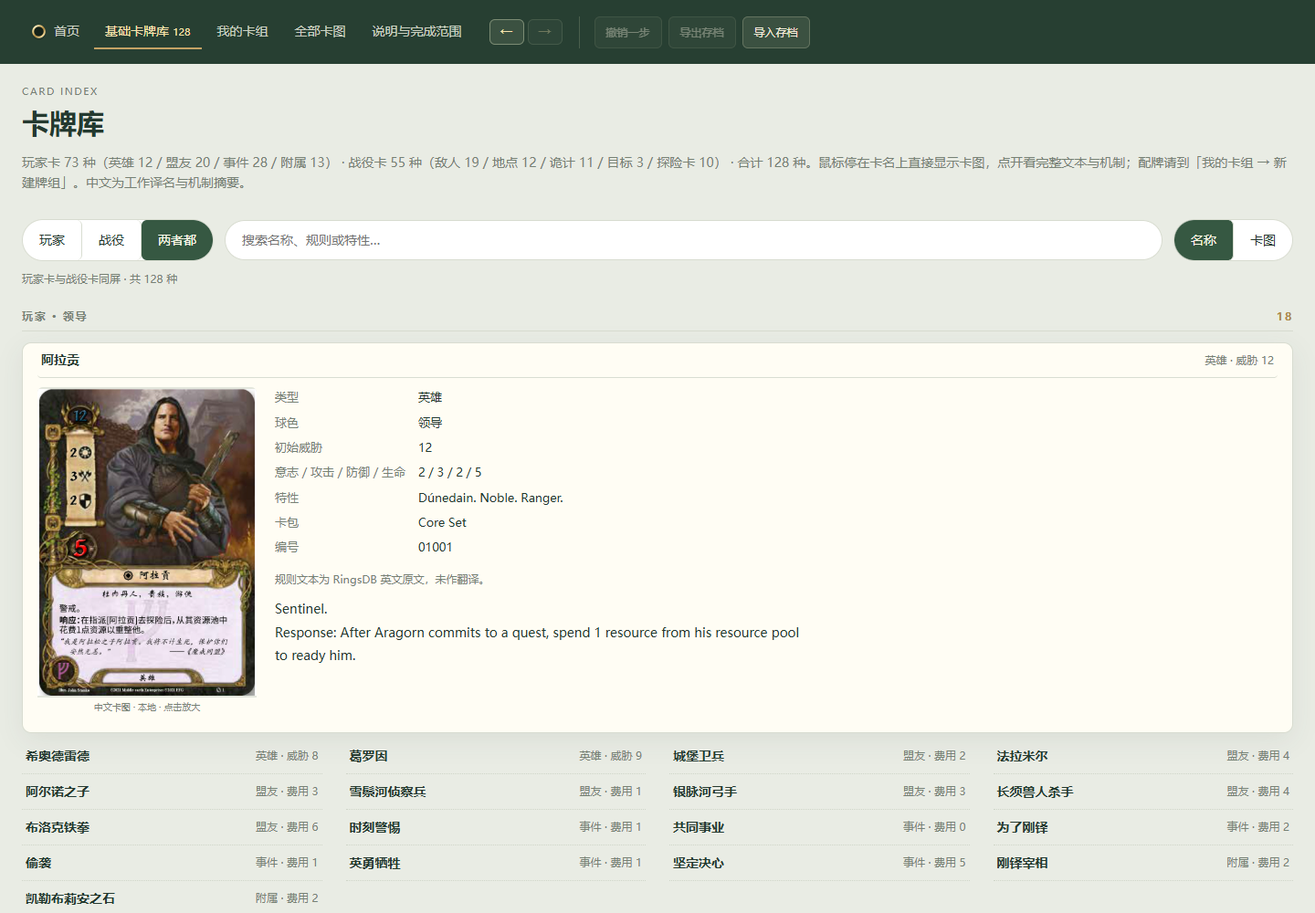
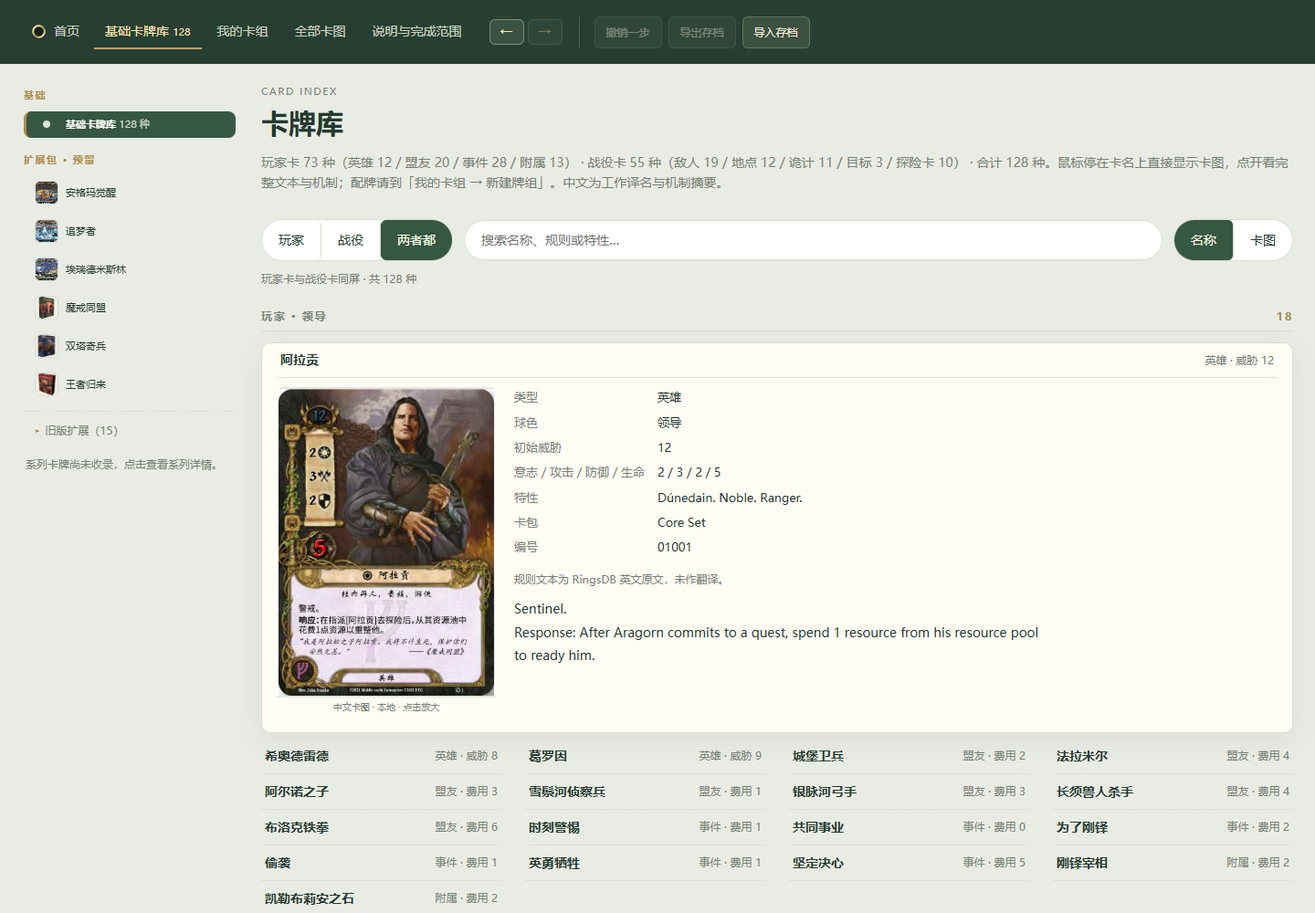
v0.15.27 卡牌库加侧边系列导航，基础卡牌库为默认项
参照诡镇奇谈网页版的侧边栏，卡牌库改为「侧边系列导航 + 主内容区」
双栏布局，为按卡牌系列扩展留好结构。

- 侧栏两组：基础（基础卡牌库，默认激活，标注 128 种）与扩展包 ·
  预留（新版扩展 6 系列直接列出，旧版扩展 15 大盒折叠在 details）
- 扩展条目从 PRODUCT_TABS.revised 与 legacySeries() 动态生成并带
  封面小图（懒加载，webp 缺失回退 jpg）；点击进系列详情面板（封面 +
  「卡牌尚未收录」说明）；以后收录某系列时把 catalogSeriesPanel()
  的占位换成按系列筛选即可，导航结构无需再动
- 样式沿用现有体系（金色小节标题、绿色激活条）；aria-current 标注
  激活项；桌面侧栏 sticky 且内部可滚动
- 移动端 ≤960px：单列，侧栏取消 sticky，条目变可换行 chip；480 宽
  实测无横向溢出
- 加固：filterCatalog() 与 render 搜索绑定补空值守卫（系列详情无
  #search/#resultCount 时安全跳过）
- 回归：planning-dom-tests 新增侧栏用例；check-catalog 加 7 项侧栏
  检查 + 4 项移动端检查，共 41 项全 PASS；432 项测试通过

diff --git a/index.html b/index.html
@@ -363,6 +363,47 @@ body:has(.desktop-table) .nav-home .brand-mark{width:17px;height:17px}
 .build-row .cat-name{overflow-wrap:anywhere}
 @media(max-width:900px){.build-list{grid-template-columns:1fr}}
 
+/* 卡牌库侧边导航：桌面双栏，基础卡牌库为默认项，扩展包条目为预留占位 */
+.catalog-layout{display:grid;grid-template-columns:236px minmax(0,1fr);gap:26px;align-items:start}
+.cat-side{position:sticky;top:74px;max-height:calc(100vh - 92px);overflow-y:auto;padding:4px 2px 16px;scrollbar-width:thin}
+.cat-nav{display:grid;gap:16px}
+.cat-nav-group{display:grid;gap:4px}
+.cat-nav-group h3{margin:0 0 4px;font-size:11px;letter-spacing:.14em;text-transform:uppercase;color:var(--gold);font-weight:700}
+.cat-nav-item{display:flex;align-items:center;gap:9px;width:100%;padding:7px 10px;border:0;border-left:3px solid transparent;border-radius:8px;background:transparent;color:var(--ink);font:inherit;font-size:14px;line-height:1.35;text-align:left;cursor:pointer;transition:background .12s ease,border-color .12s ease}
+.cat-nav-item:hover{background:#36584214;border-color:#36584233}
+.cat-nav-item:focus-visible{outline:2px solid var(--green);outline-offset:1px}
+.cat-nav-item[aria-current="page"]{background:var(--green);border-left-color:var(--gold);color:#fffdf6;font-weight:600}
+.cat-nav-item[aria-current="page"] .cat-nav-name small{color:#fffdf6b8}
+.cat-nav-item img{width:24px;height:24px;flex:0 0 24px;object-fit:cover;border-radius:5px;background:#f2f0e4;box-shadow:0 0 0 1px var(--line)}
+.cat-nav-dot{width:8px;height:8px;flex:0 0 8px;margin:0 8px;border-radius:50%;background:var(--gold);opacity:.85}
+.cat-nav-item[aria-current="page"] .cat-nav-dot{background:#fffdf6}
+.cat-nav-name{overflow-wrap:anywhere}
+.cat-nav-name small{color:var(--muted);font-size:11px;font-weight:400}
+.cat-nav-fold{border-top:1px dashed var(--line);margin-top:6px;padding-top:6px}
+.cat-nav-fold summary{cursor:pointer;font-size:12px;color:var(--muted);padding:5px 10px;border-radius:6px;list-style:none}
+.cat-nav-fold summary::-webkit-details-marker{display:none}
+.cat-nav-fold summary::before{content:"▸ ";color:var(--gold)}
+.cat-nav-fold[open] summary::before{content:"▾ "}
+.cat-nav-fold summary:hover{color:var(--ink);background:#36584210}
+.cat-nav-fold[open] summary{margin-bottom:2px}
+.cat-nav-hint{margin:8px 2px 0;color:var(--muted)}
+.cat-series-panel{display:flex;gap:20px;align-items:flex-start}
+.cat-series-art{width:180px;max-width:38%;border-radius:10px;box-shadow:0 0 0 1px var(--line),0 8px 22px #24392f1c;align-self:flex-start}
+.cat-series-text h2{margin:4px 0 10px;font-size:19px}
+.cat-series-text button{margin-top:6px}
+@media(max-width:960px){
+ .catalog-layout{grid-template-columns:1fr;gap:14px}
+ .cat-side{position:static;max-height:none;overflow:visible;padding:0}
+ .cat-nav{display:block}
+ .cat-nav-group{display:block;margin-bottom:12px}
+ .cat-nav-group h3{margin-bottom:4px}
+ .cat-nav-item{display:inline-flex;width:auto;max-width:100%;margin:2px 6px 2px 0;background:#fffdf6;border:1px solid var(--line);border-left:3px solid transparent}
+ .cat-nav-item[aria-current="page"]{border-color:var(--green)}
+ .cat-nav-fold{border-top:0;padding-top:2px;margin-top:2px}
+ .cat-series-panel{flex-direction:column}
+ .cat-series-art{width:min(240px,60%);max-width:none}
+}
+
 </style></head><body>
 <header><nav><button id="tableTab" class="active nav-home" title="回到首页"><svg class="brand-mark" viewBox="0 0 64 64" aria-hidden="true" focusable="false"><defs><linearGradient id="brandGold" x1="10" y1="8" x2="54" y2="57" gradientUnits="userSpaceOnUse"><stop offset="0" stop-color="#fdf4cd"/><stop offset=".32" stop-color="#e3c47a"/><stop offset=".55" stop-color="#a9853f"/><stop offset=".78" stop-color="#e8cb86"/><stop offset="1" stop-color="#fffae0"/></linearGradient><radialGradient id="brandField" cx=".5" cy=".42" r=".58"><stop offset="0" stop-color="#8a4a16"/><stop offset=".46" stop-color="#4a2a10"/><stop offset="1" stop-color="#150e07"/></radialGradient></defs><circle cx="32" cy="32" r="21" fill="#0d1710" fill-opacity=".62"/><circle cx="32" cy="32" r="21" fill="none" stroke="url(#brandGold)" stroke-width="7"/><path d="M14.6 19.2A21 21 0 0 1 32.6 10.9" fill="none" stroke="#fffbe8" stroke-width="2.4" stroke-linecap="round" opacity=".55"/></svg>首页</button><button id="catalogTab">基础卡牌库 <span>55</span></button><button id="decksTab">我的卡组</button><button id="imagesTab">全部卡图</button><button id="helpTab">说明与完成范围</button></nav><div class="history-nav"><button id="navBack" type="button" title="后退" aria-label="后退">←</button><button id="navFwd" type="button" title="前进" aria-label="前进">→</button></div><div class="header-actions"><button id="undo">撤销一步</button><button id="export">导出存档</button><label class="button" for="import">导入存档</label><input id="import" type="file" accept="application/json" hidden></div></header>
 <main id="app"></main><div id="toast" role="status" aria-live="polite"></div>
@@ -8429,7 +8470,7 @@ const WindowUI=(()=>{
 </script><script>
 /* Tabletop view: UI drafts never pay, exhaust, reveal, or bypass phase validation. */
 /* 界面版本徽标唯一来源：须与 CHANGELOG.md 最新条目标题一致（planning-dom-tests 有校验）。 */
-const APP_VERSION='v0.15.26';
+const APP_VERSION='v0.15.27';
 const DesktopUI=(()=>{
  const E=ScenarioEngine,R=E.planning,Q=E.questing,C=E.combat,esc=x=>String(x??'').replace(/[&<>"']/g,c=>({'&':'&amp;','<':'&lt;','>':'&gt;','"':'&quot;',"'":'&#39;'}[c]));
  let combatDraft={key:'',target:null,ids:[]},draftState=null;
@@ -8909,7 +8950,29 @@ const CAT_SIDES=[{id:'player',label:'玩家',note:'英雄 · 盟友 · 附属 ·
 const CAT_GROUP_ORDER=['领导','战术','精神','学识','中立','敌人','地点','诡计','目标','探险卡'];
 const PLAYER_TYPES={hero:'英雄',ally:'盟友',attachment:'附属',event:'事件'};
 const SPHERE_NAMES={leadership:'领导',tactics:'战术',spirit:'精神',lore:'学识',neutral:'中立'};
-let catalogSide='both',catalogView='list',catalogQuery='',catalogCache=null;
+let catalogSide='both',catalogView='list',catalogQuery='',catalogCache=null,catSection='base',catalogNavCache=null;
+/* 侧边栏导航：基础卡牌库是默认项；扩展包条目从产品目录动态生成做占位，
+ * 以后某系列收录卡牌时，把 catalogSeriesPanel 的占位换成该系列的筛选结果即可。 */
+function catalogNav(){
+ if(catalogNavCache)return catalogNavCache;
+ const revised=[],legacy=[];
+ for(const ch of PRODUCT_TABS.revised||[])for(const it of ch.items||[])revised.push({id:it.id,name:it.zh||it.name,en:it.en&&it.en!==it.name?it.en:'',art:it.art||'',meta:it.meta||''});
+ for(const s of legacySeries())legacy.push({id:s.id,name:s.name,en:s.en&&s.en!==s.name?s.en:'',art:s.art||'',meta:s.packs&&s.packs.length?`${s.packs.length} 个扩展`:'循环'});
+ return catalogNavCache={revised,legacy};
+}
+function catNavItem(it){
+ const icon=it.art?`<img src="${enc(it.art)}" alt="" loading="lazy" onerror="const s=this.getAttribute('src')||'';if(/\.webp$/.test(s)){this.setAttribute('src',s.replace(/\.webp$/,'.jpg'))}else{this.remove()}">`:'<span class="cat-nav-dot" aria-hidden="true"></span>';
+ return `<button type="button" class="cat-nav-item" data-action="catNav" data-section="${enc(it.id)}" aria-current="${catSection===it.id?'page':'false'}">${icon}<span class="cat-nav-name">${enc(it.name)}</span></button>`;
+}
+function catNavHtml(){
+ const nav=catalogNav();
+ return `<aside class="cat-side"><nav class="cat-nav" aria-label="卡牌库系列导航"><div class="cat-nav-group"><h3>基础</h3><button type="button" class="cat-nav-item" data-action="catNav" data-section="base" aria-current="${catSection==='base'?'page':'false'}"><span class="cat-nav-dot" aria-hidden="true"></span><span class="cat-nav-name">基础卡牌库<small> ${catalogStats().total} 种</small></span></button></div><div class="cat-nav-group"><h3>扩展包 · 预留</h3>${nav.revised.map(catNavItem).join('')}<details class="cat-nav-fold"${catSection!=='base'&&nav.legacy.some(x=>x.id===catSection)?' open':''}><summary>旧版扩展（${nav.legacy.length}）</summary>${nav.legacy.map(catNavItem).join('')}</details><p class="cat-nav-hint small">系列卡牌尚未收录，点击查看系列详情。</p></div></nav></aside>`;
+}
+function catalogSeriesPanel(id){
+ const it=catalogNav().revised.concat(catalogNav().legacy).find(x=>x.id===id);if(!it)return '';
+ const art=it.art?`<img class="cat-series-art" src="${enc(it.art)}" alt="" loading="lazy" onerror="const s=this.getAttribute('src')||'';if(/\.webp$/.test(s)){this.setAttribute('src',s.replace(/\.webp$/,'.jpg'))}else{this.remove()}">`:'';
+ return `<div class="intro"><div><div class="eyebrow">SERIES · 即将收录</div><h1>${enc(it.name)}</h1>${it.en?`<p class="muted">${enc(it.en)}</p>`:''}</div></div><section class="panel cat-series-panel">${art}<div class="cat-series-text"><h2>该系列的卡牌尚未收录</h2><p>目前卡牌库收录的是基础版 ${catalogStats().total} 种卡牌（玩家卡与战役卡）。这一系列${it.meta?`（${enc(it.meta)}）`:''}的卡牌与规则将随版本更新加入，届时会出现在这里，并可直接按本系列筛选。</p><p class="small muted">想先了解它的剧本？回首页从「新版扩展／旧版扩展」进入对应章节。</p><button type="button" data-action="catNav" data-section="base">← 返回基础卡牌库</button></div></section>`;
+}
 function catalogEntries(){
  if(catalogCache)return catalogCache;
  const out=[],snap=(typeof RINGSDB_SNAPSHOT!=='undefined'&&RINGSDB_SNAPSHOT.cards)||[];
@@ -8938,8 +9001,11 @@ function catalogGroups(side){
  return [...map.values()].sort((a,b)=>(a.order<0?99:a.order)-(b.order<0?99:b.order));
 }
 function catalog(){
- const st=catalogStats(),kinds=m=>Object.entries(m).map(([k,v])=>enc(k)+' '+v).join(' / ');
- return `<div class="intro"><div><div class="eyebrow">CARD INDEX</div><h1>卡牌库</h1><p class="muted">玩家卡 ${st.player} 种（${kinds(st.playerKinds)}） · 战役卡 ${st.encounter} 种（${kinds(st.encounterKinds)}） · 合计 ${st.total} 种。鼠标停在卡名上直接显示卡图，点开看完整文本与机制；配牌请到「我的卡组 → 新建牌组」。中文为工作译名与机制摘要。</p></div></div><div class="cat-controls"><div class="cat-sides" role="group" aria-label="卡牌分类">${CAT_SIDES.map(s=>`<button type="button" data-action="catSide" data-value="${s.id}" aria-pressed="${s.id===catalogSide}" title="${enc(s.note)}">${s.label}</button>`).join('')}</div><input id="search" placeholder="搜索名称、规则或特性…" value="${enc(catalogQuery)}" aria-label="搜索卡牌"><div class="cat-views" role="group" aria-label="显示方式"><button type="button" data-action="catView" data-value="list" aria-pressed="${catalogView==='list'}">名称</button><button type="button" data-action="catView" data-value="art" aria-pressed="${catalogView==='art'}">卡图</button></div></div><div class="small muted" id="resultCount"></div><div class="cat-index" id="catalogResults"></div>`;
+ const main=catSection==='base'?(()=>{
+  const st=catalogStats(),kinds=m=>Object.entries(m).map(([k,v])=>enc(k)+' '+v).join(' / ');
+  return `<div class="intro"><div><div class="eyebrow">CARD INDEX</div><h1>卡牌库</h1><p class="muted">玩家卡 ${st.player} 种（${kinds(st.playerKinds)}） · 战役卡 ${st.encounter} 种（${kinds(st.encounterKinds)}） · 合计 ${st.total} 种。鼠标停在卡名上直接显示卡图，点开看完整文本与机制；配牌请到「我的卡组 → 新建牌组」。中文为工作译名与机制摘要。</p></div></div><div class="cat-controls"><div class="cat-sides" role="group" aria-label="卡牌分类">${CAT_SIDES.map(s=>`<button type="button" data-action="catSide" data-value="${s.id}" aria-pressed="${s.id===catalogSide}" title="${enc(s.note)}">${s.label}</button>`).join('')}</div><input id="search" placeholder="搜索名称、规则或特性…" value="${enc(catalogQuery)}" aria-label="搜索卡牌"><div class="cat-views" role="group" aria-label="显示方式"><button type="button" data-action="catView" data-value="list" aria-pressed="${catalogView==='list'}">名称</button><button type="button" data-action="catView" data-value="art" aria-pressed="${catalogView==='art'}">卡图</button></div></div><div class="small muted" id="resultCount"></div><div class="cat-index" id="catalogResults"></div>`;
+ })():catalogSeriesPanel(catSection);
+ return `<div class="catalog-layout">${catNavHtml()}<div class="cat-main">${main}</div></div>`;
 }
 function catalogHover(e){
  const key=e.face==='player'?e.code:'enc-'+e.code,rec=ImageLibrary.by[key],url=rec?ImageLibrary.safeUrl(rec.imageUrl):null;
@@ -8977,9 +9043,8 @@ function filterCatalog(){
   return `<section class="cat-group"><h2><span>${enc(g.title)}</span><span class="cat-count">${hit.length}</span></h2>${catalogView==='art'?`<div class="cat-art-grid">${hit.map(catalogArt).join('')}</div>`:`<div class="cat-list">${hit.map(catalogItem).join('')}</div>`}</section>`;
  }).join('');
  const side=CAT_SIDES.find(s=>s.id===catalogSide)||CAT_SIDES[2];
- $('#resultCount').textContent=q?`「${catalogQuery.trim()}」匹配 ${shown} 种`:`${side.note} · 共 ${shown} 种`;
- $('#catalogResults').innerHTML=html||empty(q?'没有匹配的卡牌，换个关键词。':'这一类暂时没有卡牌。');
- ImageLibrary.bindErrors(document.querySelector('#catalogResults'));
+ const rc=$('#resultCount');if(rc)rc.textContent=q?`「${catalogQuery.trim()}」匹配 ${shown} 种`:`${side.note} · 共 ${shown} 种`;
+ const cr=$('#catalogResults');if(cr){cr.innerHTML=html||empty(q?'没有匹配的卡牌，换个关键词。':'这一类暂时没有卡牌。');ImageLibrary.bindErrors(cr);}
  bindCatalog();
 }
 function bindCatalog(){
@@ -9033,7 +9098,7 @@ async function handleChooser(b){const a=b.dataset.action,c=deckChooser;if(!c)ret
  if(a==='chooserImportUrl'){const input=document.querySelector('#chooser-url'),raw=String(input&&input.value||'').trim(),m=raw.match(/(?:decklist|deck)\/(?:view\/)?(\d+)/i)||raw.match(/^(\d+)$/);if(!m){toast('无法识别牌组编号；示例 https://ringsdb.com/decklist/view/12345');return;}const ctrl=new AbortController(),timer=setTimeout(()=>ctrl.abort(),15000);try{const res=await fetch('https://ringsdb.com/api/public/decklist/'+m[1],{signal:ctrl.signal,headers:{Accept:'application/json'}});if(!res.ok)throw Error('RingsDB 返回 HTTP '+res.status);const saved=PlayerUI.saveDeck(PlayerCards.fromRingsdb(await res.json()));c.picks[c.player]=saved.id;const next=c.picks.findIndex(x=>!x);if(next>=0)c.player=next;render();toast('已导入并选给玩家'+(c.player+1)+'：'+saved.name);}catch(e){toast(e.name==='AbortError'?'RingsDB 请求超时（15秒）；国内网络通常无法访问':'导入失败：'+e.message);}finally{clearTimeout(timer);}return;}
  if(a==='chooserConfirm'){for(let i=0;i<c.players;i++)setupDraft.decks[i]=c.picks[i];const id=c.scenario;deckChooser=null;beginScenario(id);return;}
 }
-function render(){captureSetup();document.querySelectorAll('nav button').forEach(b=>b.classList.remove('active'));const navBtn=$('#'+({table:'tableTab',decks:'decksTab',catalog:'catalogTab',images:'imagesTab',help:'helpTab'}[tab]));if(navBtn)navBtn.classList.add('active');$('#app').innerHTML=tab==='table'?(deckChooser?chooserPage():table()):tab==='decks'?(PlayerUI.isBuilding()?PlayerUI.builder():PlayerUI.decksPage()):tab==='catalog'?catalog():tab==='images'?ImageLibrary.html():help();$('#undo').disabled=!history.length;$('#export').disabled=!state;if(tab==='table'&&state&&$('#hand-player'))$('#hand-player').onchange=ev=>{handView=Number(ev.target.value);render();};if(tab==='table'&&state&&$('#planning-actor'))$('#planning-actor').onchange=ev=>{handView=Number(ev.target.value);render();};if(tab==='table'&&state)QuestUI.bind();if(tab==='table'&&!state)bindSetup();if(tab==='decks'){PlayerUI.bindDecks();PlayerUI.bind();}if(tab==='images')ImageLibrary.bind();else ImageLibrary.bindErrors(document.querySelector('#app'));if(tab==='catalog'){filterCatalog();$('#search').oninput=filterCatalog;}trackView();}
+function render(){captureSetup();document.querySelectorAll('nav button').forEach(b=>b.classList.remove('active'));const navBtn=$('#'+({table:'tableTab',decks:'decksTab',catalog:'catalogTab',images:'imagesTab',help:'helpTab'}[tab]));if(navBtn)navBtn.classList.add('active');$('#app').innerHTML=tab==='table'?(deckChooser?chooserPage():table()):tab==='decks'?(PlayerUI.isBuilding()?PlayerUI.builder():PlayerUI.decksPage()):tab==='catalog'?catalog():tab==='images'?ImageLibrary.html():help();$('#undo').disabled=!history.length;$('#export').disabled=!state;if(tab==='table'&&state&&$('#hand-player'))$('#hand-player').onchange=ev=>{handView=Number(ev.target.value);render();};if(tab==='table'&&state&&$('#planning-actor'))$('#planning-actor').onchange=ev=>{handView=Number(ev.target.value);render();};if(tab==='table'&&state)QuestUI.bind();if(tab==='table'&&!state)bindSetup();if(tab==='decks'){PlayerUI.bindDecks();PlayerUI.bind();}if(tab==='images')ImageLibrary.bind();else ImageLibrary.bindErrors(document.querySelector('#app'));if(tab==='catalog'){filterCatalog();const si=$('#search');if(si)si.oninput=filterCatalog;}trackView();}
 async function choose(title,body,read){return new Promise(resolve=>{let d=document.createElement('dialog');d.innerHTML=`<h2>${enc(title)}</h2><div>${body}</div><div class="actions"><button class="primary" id="ok">确认</button><button id="cancel">取消</button></div>`;document.body.append(d);d.showModal();d.querySelector('#ok').onclick=()=>{let v=read(d);d.close();d.remove();resolve(v);};d.querySelector('#cancel').onclick=()=>{d.close();d.remove();resolve(null);};d.oncancel=()=>{d.remove();resolve(null);};});}
 function playerOptions(){return state.players.filter(p=>!p.eliminated).map(p=>`<option value="${p.id}">${enc(p.name)}</option>`).join('');}
 $('#app').onclick=async ev=>{const b=ev.target.closest('[data-action]');if(!b||b.disabled)return;const a=b.dataset.action,uid=Number(b.dataset.uid),id=Number(b.dataset.id),pid=Number(b.dataset.player);
@@ -9048,6 +9113,7 @@ $('#app').onclick=async ev=>{const b=ev.target.closest('[data-action]');if(!b||b
  if(a==='images'){ImageLibrary.handle(b);return;}
  if(a==='catSide'){catalogSide=b.dataset.value;render();return;}
  if(a==='catView'){catalogView=b.dataset.value;render();return;}
+ if(a==='catNav'){catSection=b.dataset.section||'base';render();return;}
  if(a==='pc'){await PlayerUI.handle(b);return;}
  if(a==='start'){beginScenario(b.dataset.id);return;}
  if(a==='startOpen'){openChooser(b.dataset.id);return;}

diff --git a/app.js b/app.js
@@ -143,7 +143,29 @@ const CAT_SIDES=[{id:'player',label:'玩家',note:'英雄 · 盟友 · 附属 ·
 const CAT_GROUP_ORDER=['领导','战术','精神','学识','中立','敌人','地点','诡计','目标','探险卡'];
 const PLAYER_TYPES={hero:'英雄',ally:'盟友',attachment:'附属',event:'事件'};
 const SPHERE_NAMES={leadership:'领导',tactics:'战术',spirit:'精神',lore:'学识',neutral:'中立'};
-let catalogSide='both',catalogView='list',catalogQuery='',catalogCache=null;
+let catalogSide='both',catalogView='list',catalogQuery='',catalogCache=null,catSection='base',catalogNavCache=null;
+/* 侧边栏导航：基础卡牌库是默认项；扩展包条目从产品目录动态生成做占位，
+ * 以后某系列收录卡牌时，把 catalogSeriesPanel 的占位换成该系列的筛选结果即可。 */
+function catalogNav(){
+ if(catalogNavCache)return catalogNavCache;
+ const revised=[],legacy=[];
+ for(const ch of PRODUCT_TABS.revised||[])for(const it of ch.items||[])revised.push({id:it.id,name:it.zh||it.name,en:it.en&&it.en!==it.name?it.en:'',art:it.art||'',meta:it.meta||''});
+ for(const s of legacySeries())legacy.push({id:s.id,name:s.name,en:s.en&&s.en!==s.name?s.en:'',art:s.art||'',meta:s.packs&&s.packs.length?`${s.packs.length} 个扩展`:'循环'});
+ return catalogNavCache={revised,legacy};
+}
+function catNavItem(it){
+ const icon=it.art?`<img src="${enc(it.art)}" alt="" loading="lazy" onerror="const s=this.getAttribute('src')||'';if(/\.webp$/.test(s)){this.setAttribute('src',s.replace(/\.webp$/,'.jpg'))}else{this.remove()}">`:'<span class="cat-nav-dot" aria-hidden="true"></span>';
+ return `<button type="button" class="cat-nav-item" data-action="catNav" data-section="${enc(it.id)}" aria-current="${catSection===it.id?'page':'false'}">${icon}<span class="cat-nav-name">${enc(it.name)}</span></button>`;
+}
+function catNavHtml(){
+ const nav=catalogNav();
+ return `<aside class="cat-side"><nav class="cat-nav" aria-label="卡牌库系列导航"><div class="cat-nav-group"><h3>基础</h3><button type="button" class="cat-nav-item" data-action="catNav" data-section="base" aria-current="${catSection==='base'?'page':'false'}"><span class="cat-nav-dot" aria-hidden="true"></span><span class="cat-nav-name">基础卡牌库<small> ${catalogStats().total} 种</small></span></button></div><div class="cat-nav-group"><h3>扩展包 · 预留</h3>${nav.revised.map(catNavItem).join('')}<details class="cat-nav-fold"${catSection!=='base'&&nav.legacy.some(x=>x.id===catSection)?' open':''}><summary>旧版扩展（${nav.legacy.length}）</summary>${nav.legacy.map(catNavItem).join('')}</details><p class="cat-nav-hint small">系列卡牌尚未收录，点击查看系列详情。</p></div></nav></aside>`;
+}
+function catalogSeriesPanel(id){
+ const it=catalogNav().revised.concat(catalogNav().legacy).find(x=>x.id===id);if(!it)return '';
+ const art=it.art?`<img class="cat-series-art" src="${enc(it.art)}" alt="" loading="lazy" onerror="const s=this.getAttribute('src')||'';if(/\.webp$/.test(s)){this.setAttribute('src',s.replace(/\.webp$/,'.jpg'))}else{this.remove()}">`:'';
+ return `<div class="intro"><div><div class="eyebrow">SERIES · 即将收录</div><h1>${enc(it.name)}</h1>${it.en?`<p class="muted">${enc(it.en)}</p>`:''}</div></div><section class="panel cat-series-panel">${art}<div class="cat-series-text"><h2>该系列的卡牌尚未收录</h2><p>目前卡牌库收录的是基础版 ${catalogStats().total} 种卡牌（玩家卡与战役卡）。这一系列${it.meta?`（${enc(it.meta)}）`:''}的卡牌与规则将随版本更新加入，届时会出现在这里，并可直接按本系列筛选。</p><p class="small muted">想先了解它的剧本？回首页从「新版扩展／旧版扩展」进入对应章节。</p><button type="button" data-action="catNav" data-section="base">← 返回基础卡牌库</button></div></section>`;
+}
 function catalogEntries(){
  if(catalogCache)return catalogCache;
  const out=[],snap=(typeof RINGSDB_SNAPSHOT!=='undefined'&&RINGSDB_SNAPSHOT.cards)||[];
@@ -172,8 +194,11 @@ function catalogGroups(side){
  return [...map.values()].sort((a,b)=>(a.order<0?99:a.order)-(b.order<0?99:b.order));
 }
 function catalog(){
- const st=catalogStats(),kinds=m=>Object.entries(m).map(([k,v])=>enc(k)+' '+v).join(' / ');
- return `<div class="intro"><div><div class="eyebrow">CARD INDEX</div><h1>卡牌库</h1><p class="muted">玩家卡 ${st.player} 种（${kinds(st.playerKinds)}） · 战役卡 ${st.encounter} 种（${kinds(st.encounterKinds)}） · 合计 ${st.total} 种。鼠标停在卡名上直接显示卡图，点开看完整文本与机制；配牌请到「我的卡组 → 新建牌组」。中文为工作译名与机制摘要。</p></div></div><div class="cat-controls"><div class="cat-sides" role="group" aria-label="卡牌分类">${CAT_SIDES.map(s=>`<button type="button" data-action="catSide" data-value="${s.id}" aria-pressed="${s.id===catalogSide}" title="${enc(s.note)}">${s.label}</button>`).join('')}</div><input id="search" placeholder="搜索名称、规则或特性…" value="${enc(catalogQuery)}" aria-label="搜索卡牌"><div class="cat-views" role="group" aria-label="显示方式"><button type="button" data-action="catView" data-value="list" aria-pressed="${catalogView==='list'}">名称</button><button type="button" data-action="catView" data-value="art" aria-pressed="${catalogView==='art'}">卡图</button></div></div><div class="small muted" id="resultCount"></div><div class="cat-index" id="catalogResults"></div>`;
+ const main=catSection==='base'?(()=>{
+  const st=catalogStats(),kinds=m=>Object.entries(m).map(([k,v])=>enc(k)+' '+v).join(' / ');
+  return `<div class="intro"><div><div class="eyebrow">CARD INDEX</div><h1>卡牌库</h1><p class="muted">玩家卡 ${st.player} 种（${kinds(st.playerKinds)}） · 战役卡 ${st.encounter} 种（${kinds(st.encounterKinds)}） · 合计 ${st.total} 种。鼠标停在卡名上直接显示卡图，点开看完整文本与机制；配牌请到「我的卡组 → 新建牌组」。中文为工作译名与机制摘要。</p></div></div><div class="cat-controls"><div class="cat-sides" role="group" aria-label="卡牌分类">${CAT_SIDES.map(s=>`<button type="button" data-action="catSide" data-value="${s.id}" aria-pressed="${s.id===catalogSide}" title="${enc(s.note)}">${s.label}</button>`).join('')}</div><input id="search" placeholder="搜索名称、规则或特性…" value="${enc(catalogQuery)}" aria-label="搜索卡牌"><div class="cat-views" role="group" aria-label="显示方式"><button type="button" data-action="catView" data-value="list" aria-pressed="${catalogView==='list'}">名称</button><button type="button" data-action="catView" data-value="art" aria-pressed="${catalogView==='art'}">卡图</button></div></div><div class="small muted" id="resultCount"></div><div class="cat-index" id="catalogResults"></div>`;
+ })():catalogSeriesPanel(catSection);
+ return `<div class="catalog-layout">${catNavHtml()}<div class="cat-main">${main}</div></div>`;
 }
 function catalogHover(e){
  const key=e.face==='player'?e.code:'enc-'+e.code,rec=ImageLibrary.by[key],url=rec?ImageLibrary.safeUrl(rec.imageUrl):null;
@@ -211,9 +236,8 @@ function filterCatalog(){
   return `<section class="cat-group"><h2><span>${enc(g.title)}</span><span class="cat-count">${hit.length}</span></h2>${catalogView==='art'?`<div class="cat-art-grid">${hit.map(catalogArt).join('')}</div>`:`<div class="cat-list">${hit.map(catalogItem).join('')}</div>`}</section>`;
  }).join('');
  const side=CAT_SIDES.find(s=>s.id===catalogSide)||CAT_SIDES[2];
- $('#resultCount').textContent=q?`「${catalogQuery.trim()}」匹配 ${shown} 种`:`${side.note} · 共 ${shown} 种`;
- $('#catalogResults').innerHTML=html||empty(q?'没有匹配的卡牌，换个关键词。':'这一类暂时没有卡牌。');
- ImageLibrary.bindErrors(document.querySelector('#catalogResults'));
+ const rc=$('#resultCount');if(rc)rc.textContent=q?`「${catalogQuery.trim()}」匹配 ${shown} 种`:`${side.note} · 共 ${shown} 种`;
+ const cr=$('#catalogResults');if(cr){cr.innerHTML=html||empty(q?'没有匹配的卡牌，换个关键词。':'这一类暂时没有卡牌。');ImageLibrary.bindErrors(cr);}
  bindCatalog();
 }
 function bindCatalog(){
@@ -267,7 +291,7 @@ async function handleChooser(b){const a=b.dataset.action,c=deckChooser;if(!c)ret
  if(a==='chooserImportUrl'){const input=document.querySelector('#chooser-url'),raw=String(input&&input.value||'').trim(),m=raw.match(/(?:decklist|deck)\/(?:view\/)?(\d+)/i)||raw.match(/^(\d+)$/);if(!m){toast('无法识别牌组编号；示例 https://ringsdb.com/decklist/view/12345');return;}const ctrl=new AbortController(),timer=setTimeout(()=>ctrl.abort(),15000);try{const res=await fetch('https://ringsdb.com/api/public/decklist/'+m[1],{signal:ctrl.signal,headers:{Accept:'application/json'}});if(!res.ok)throw Error('RingsDB 返回 HTTP '+res.status);const saved=PlayerUI.saveDeck(PlayerCards.fromRingsdb(await res.json()));c.picks[c.player]=saved.id;const next=c.picks.findIndex(x=>!x);if(next>=0)c.player=next;render();toast('已导入并选给玩家'+(c.player+1)+'：'+saved.name);}catch(e){toast(e.name==='AbortError'?'RingsDB 请求超时（15秒）；国内网络通常无法访问':'导入失败：'+e.message);}finally{clearTimeout(timer);}return;}
  if(a==='chooserConfirm'){for(let i=0;i<c.players;i++)setupDraft.decks[i]=c.picks[i];const id=c.scenario;deckChooser=null;beginScenario(id);return;}
 }
-function render(){captureSetup();document.querySelectorAll('nav button').forEach(b=>b.classList.remove('active'));const navBtn=$('#'+({table:'tableTab',decks:'decksTab',catalog:'catalogTab',images:'imagesTab',help:'helpTab'}[tab]));if(navBtn)navBtn.classList.add('active');$('#app').innerHTML=tab==='table'?(deckChooser?chooserPage():table()):tab==='decks'?(PlayerUI.isBuilding()?PlayerUI.builder():PlayerUI.decksPage()):tab==='catalog'?catalog():tab==='images'?ImageLibrary.html():help();$('#undo').disabled=!history.length;$('#export').disabled=!state;if(tab==='table'&&state&&$('#hand-player'))$('#hand-player').onchange=ev=>{handView=Number(ev.target.value);render();};if(tab==='table'&&state&&$('#planning-actor'))$('#planning-actor').onchange=ev=>{handView=Number(ev.target.value);render();};if(tab==='table'&&state)QuestUI.bind();if(tab==='table'&&!state)bindSetup();if(tab==='decks'){PlayerUI.bindDecks();PlayerUI.bind();}if(tab==='images')ImageLibrary.bind();else ImageLibrary.bindErrors(document.querySelector('#app'));if(tab==='catalog'){filterCatalog();$('#search').oninput=filterCatalog;}trackView();}
+function render(){captureSetup();document.querySelectorAll('nav button').forEach(b=>b.classList.remove('active'));const navBtn=$('#'+({table:'tableTab',decks:'decksTab',catalog:'catalogTab',images:'imagesTab',help:'helpTab'}[tab]));if(navBtn)navBtn.classList.add('active');$('#app').innerHTML=tab==='table'?(deckChooser?chooserPage():table()):tab==='decks'?(PlayerUI.isBuilding()?PlayerUI.builder():PlayerUI.decksPage()):tab==='catalog'?catalog():tab==='images'?ImageLibrary.html():help();$('#undo').disabled=!history.length;$('#export').disabled=!state;if(tab==='table'&&state&&$('#hand-player'))$('#hand-player').onchange=ev=>{handView=Number(ev.target.value);render();};if(tab==='table'&&state&&$('#planning-actor'))$('#planning-actor').onchange=ev=>{handView=Number(ev.target.value);render();};if(tab==='table'&&state)QuestUI.bind();if(tab==='table'&&!state)bindSetup();if(tab==='decks'){PlayerUI.bindDecks();PlayerUI.bind();}if(tab==='images')ImageLibrary.bind();else ImageLibrary.bindErrors(document.querySelector('#app'));if(tab==='catalog'){filterCatalog();const si=$('#search');if(si)si.oninput=filterCatalog;}trackView();}
 async function choose(title,body,read){return new Promise(resolve=>{let d=document.createElement('dialog');d.innerHTML=`<h2>${enc(title)}</h2><div>${body}</div><div class="actions"><button class="primary" id="ok">确认</button><button id="cancel">取消</button></div>`;document.body.append(d);d.showModal();d.querySelector('#ok').onclick=()=>{let v=read(d);d.close();d.remove();resolve(v);};d.querySelector('#cancel').onclick=()=>{d.close();d.remove();resolve(null);};d.oncancel=()=>{d.remove();resolve(null);};});}
 function playerOptions(){return state.players.filter(p=>!p.eliminated).map(p=>`<option value="${p.id}">${enc(p.name)}</option>`).join('');}
 $('#app').onclick=async ev=>{const b=ev.target.closest('[data-action]');if(!b||b.disabled)return;const a=b.dataset.action,uid=Number(b.dataset.uid),id=Number(b.dataset.id),pid=Number(b.dataset.player);
@@ -282,6 +306,7 @@ $('#app').onclick=async ev=>{const b=ev.target.closest('[data-action]');if(!b||b
  if(a==='images'){ImageLibrary.handle(b);return;}
  if(a==='catSide'){catalogSide=b.dataset.value;render();return;}
  if(a==='catView'){catalogView=b.dataset.value;render();return;}
+ if(a==='catNav'){catSection=b.dataset.section||'base';render();return;}
  if(a==='pc'){await PlayerUI.handle(b);return;}
  if(a==='start'){beginScenario(b.dataset.id);return;}
  if(a==='startOpen'){openChooser(b.dataset.id);return;}

diff --git a/style.css b/style.css
@@ -360,3 +360,44 @@ body:has(.desktop-table) .nav-home .brand-mark{width:17px;height:17px}
 .build-count{min-width:22px;text-align:center;color:var(--muted);font-size:13px;font-variant-numeric:tabular-nums}
 .build-row .cat-name{overflow-wrap:anywhere}
 @media(max-width:900px){.build-list{grid-template-columns:1fr}}
+
+/* 卡牌库侧边导航：桌面双栏，基础卡牌库为默认项，扩展包条目为预留占位 */
+.catalog-layout{display:grid;grid-template-columns:236px minmax(0,1fr);gap:26px;align-items:start}
+.cat-side{position:sticky;top:74px;max-height:calc(100vh - 92px);overflow-y:auto;padding:4px 2px 16px;scrollbar-width:thin}
+.cat-nav{display:grid;gap:16px}
+.cat-nav-group{display:grid;gap:4px}
+.cat-nav-group h3{margin:0 0 4px;font-size:11px;letter-spacing:.14em;text-transform:uppercase;color:var(--gold);font-weight:700}
+.cat-nav-item{display:flex;align-items:center;gap:9px;width:100%;padding:7px 10px;border:0;border-left:3px solid transparent;border-radius:8px;background:transparent;color:var(--ink);font:inherit;font-size:14px;line-height:1.35;text-align:left;cursor:pointer;transition:background .12s ease,border-color .12s ease}
+.cat-nav-item:hover{background:#36584214;border-color:#36584233}
+.cat-nav-item:focus-visible{outline:2px solid var(--green);outline-offset:1px}
+.cat-nav-item[aria-current="page"]{background:var(--green);border-left-color:var(--gold);color:#fffdf6;font-weight:600}
+.cat-nav-item[aria-current="page"] .cat-nav-name small{color:#fffdf6b8}
+.cat-nav-item img{width:24px;height:24px;flex:0 0 24px;object-fit:cover;border-radius:5px;background:#f2f0e4;box-shadow:0 0 0 1px var(--line)}
+.cat-nav-dot{width:8px;height:8px;flex:0 0 8px;margin:0 8px;border-radius:50%;background:var(--gold);opacity:.85}
+.cat-nav-item[aria-current="page"] .cat-nav-dot{background:#fffdf6}
+.cat-nav-name{overflow-wrap:anywhere}
+.cat-nav-name small{color:var(--muted);font-size:11px;font-weight:400}
+.cat-nav-fold{border-top:1px dashed var(--line);margin-top:6px;padding-top:6px}
+.cat-nav-fold summary{cursor:pointer;font-size:12px;color:var(--muted);padding:5px 10px;border-radius:6px;list-style:none}
+.cat-nav-fold summary::-webkit-details-marker{display:none}
+.cat-nav-fold summary::before{content:"▸ ";color:var(--gold)}
+.cat-nav-fold[open] summary::before{content:"▾ "}
+.cat-nav-fold summary:hover{color:var(--ink);background:#36584210}
+.cat-nav-fold[open] summary{margin-bottom:2px}
+.cat-nav-hint{margin:8px 2px 0;color:var(--muted)}
+.cat-series-panel{display:flex;gap:20px;align-items:flex-start}
+.cat-series-art{width:180px;max-width:38%;border-radius:10px;box-shadow:0 0 0 1px var(--line),0 8px 22px #24392f1c;align-self:flex-start}
+.cat-series-text h2{margin:4px 0 10px;font-size:19px}
+.cat-series-text button{margin-top:6px}
+@media(max-width:960px){
+ .catalog-layout{grid-template-columns:1fr;gap:14px}
+ .cat-side{position:static;max-height:none;overflow:visible;padding:0}
+ .cat-nav{display:block}
+ .cat-nav-group{display:block;margin-bottom:12px}
+ .cat-nav-group h3{margin-bottom:4px}
+ .cat-nav-item{display:inline-flex;width:auto;max-width:100%;margin:2px 6px 2px 0;background:#fffdf6;border:1px solid var(--line);border-left:3px solid transparent}
+ .cat-nav-item[aria-current="page"]{border-color:var(--green)}
+ .cat-nav-fold{border-top:0;padding-top:2px;margin-top:2px}
+ .cat-series-panel{flex-direction:column}
+ .cat-series-art{width:min(240px,60%);max-width:none}
+}

diff --git a/desktop-ui.js b/desktop-ui.js
@@ -1,6 +1,6 @@
 /* Tabletop view: UI drafts never pay, exhaust, reveal, or bypass phase validation. */
 /* 界面版本徽标唯一来源：须与 CHANGELOG.md 最新条目标题一致（planning-dom-tests 有校验）。 */
-const APP_VERSION='v0.15.26';
+const APP_VERSION='v0.15.27';
 const DesktopUI=(()=>{
  const E=ScenarioEngine,R=E.planning,Q=E.questing,C=E.combat,esc=x=>String(x??'').replace(/[&<>"']/g,c=>({'&':'&amp;','<':'&lt;','>':'&gt;','"':'&quot;',"'":'&#39;'}[c]));
  let combatDraft={key:'',target:null,ids:[]},draftState=null;

diff --git a/CHANGELOG.md b/CHANGELOG.md
@@ -1,3 +1,13 @@
+# v0.15.27 · 卡牌库加侧边系列导航，基础卡牌库为默认项（2026-10-22）
+
+- 参照诡镇奇谈网页版的侧边栏，卡牌库改为「侧边系列导航 + 主内容区」双栏布局。侧栏分两组：**基础**（基础卡牌库，默认激活，标注 128 种）与**扩展包 · 预留**（新版扩展 6 个系列直接列出，旧版扩展 15 个大盒折叠在 `<details>` 里）。
+- 扩展条目不是写死的占位：从 `PRODUCT_TABS.revised` 与 `legacySeries()` 动态生成，每条带产品封面小图（懒加载，webp 缺失自动回退 jpg）。点击进入该系列的详情面板——封面、中英文名与「卡牌尚未收录，将随版本更新加入」的说明；以后某系列收录卡牌时，把 `catalogSeriesPanel()` 的占位换成按系列筛选的结果即可，导航结构无需再动。
+- 样式沿用现有体系：金色小节标题、绿色激活条、封面缩略图标；`aria-current="page"` 标注激活项，`<nav aria-label>` 标注导航区。侧栏桌面端 sticky 跟随且内部可滚动。
+- 移动端（≤960px）适配：双栏塌成单列，侧栏取消 sticky，条目变为可换行的自适应 chip；实测 480 宽无横向溢出，搜索与列表正常。
+- 顺带加固：`filterCatalog()` 与 render 的搜索绑定补了空值守卫（系列详情面板没有 `#search`／`#resultCount` 时安全跳过）。
+- 回归：`planning-dom-tests` 新增侧栏用例（双栏布局、默认激活、条目数来自产品目录 ≥6+15、点扩展出占位、返回恢复列表、系列详情下 filterCatalog 不报错）；`check-catalog.cjs` 新增 7 项浏览器检查（侧栏渲染、默认激活、折叠收起、占位面板、激活同步、返回恢复）与 4 项移动端检查（480 宽无溢出、取消 sticky、chip 排布、搜索可用），共 41 项全 PASS；430+2 项规则／模拟 DOM 测试通过。
+
+
 # v0.15.26 · 悬停预览改为 RingsDB 式小图，不再近全屏放大（2026-10-22）
 
 - v0.15.25 的悬停预览按卡牌版心 424×600（横版 600×424）还原再缩放，实测 1440×900 视口下弹出 560×792，占视口高度 88%，几乎盖住半页内容，与密集列表（行高仅 38px）也不协调。
